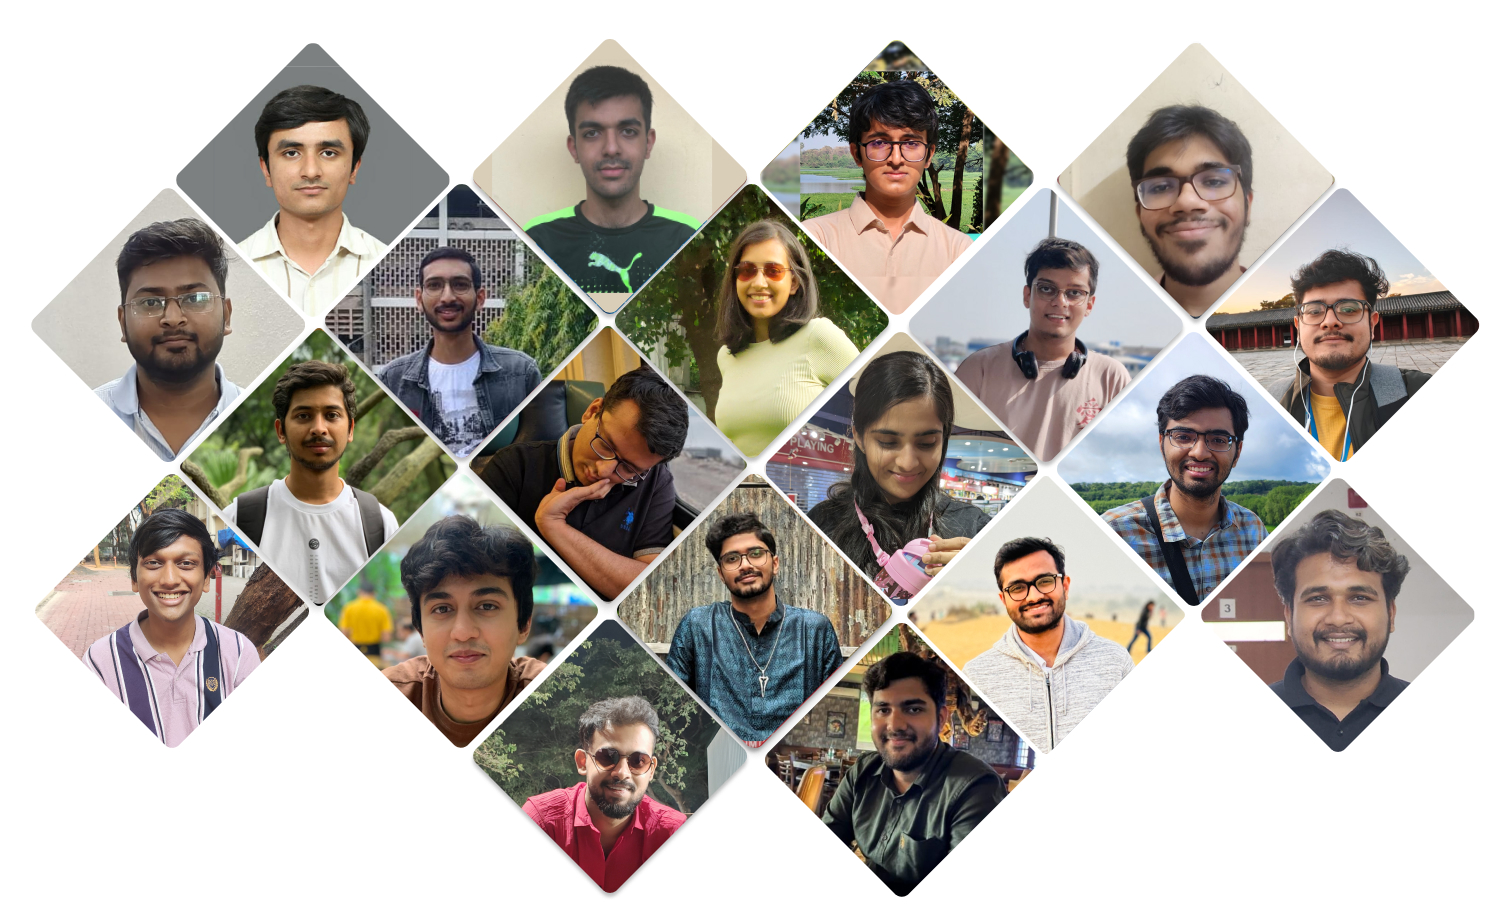
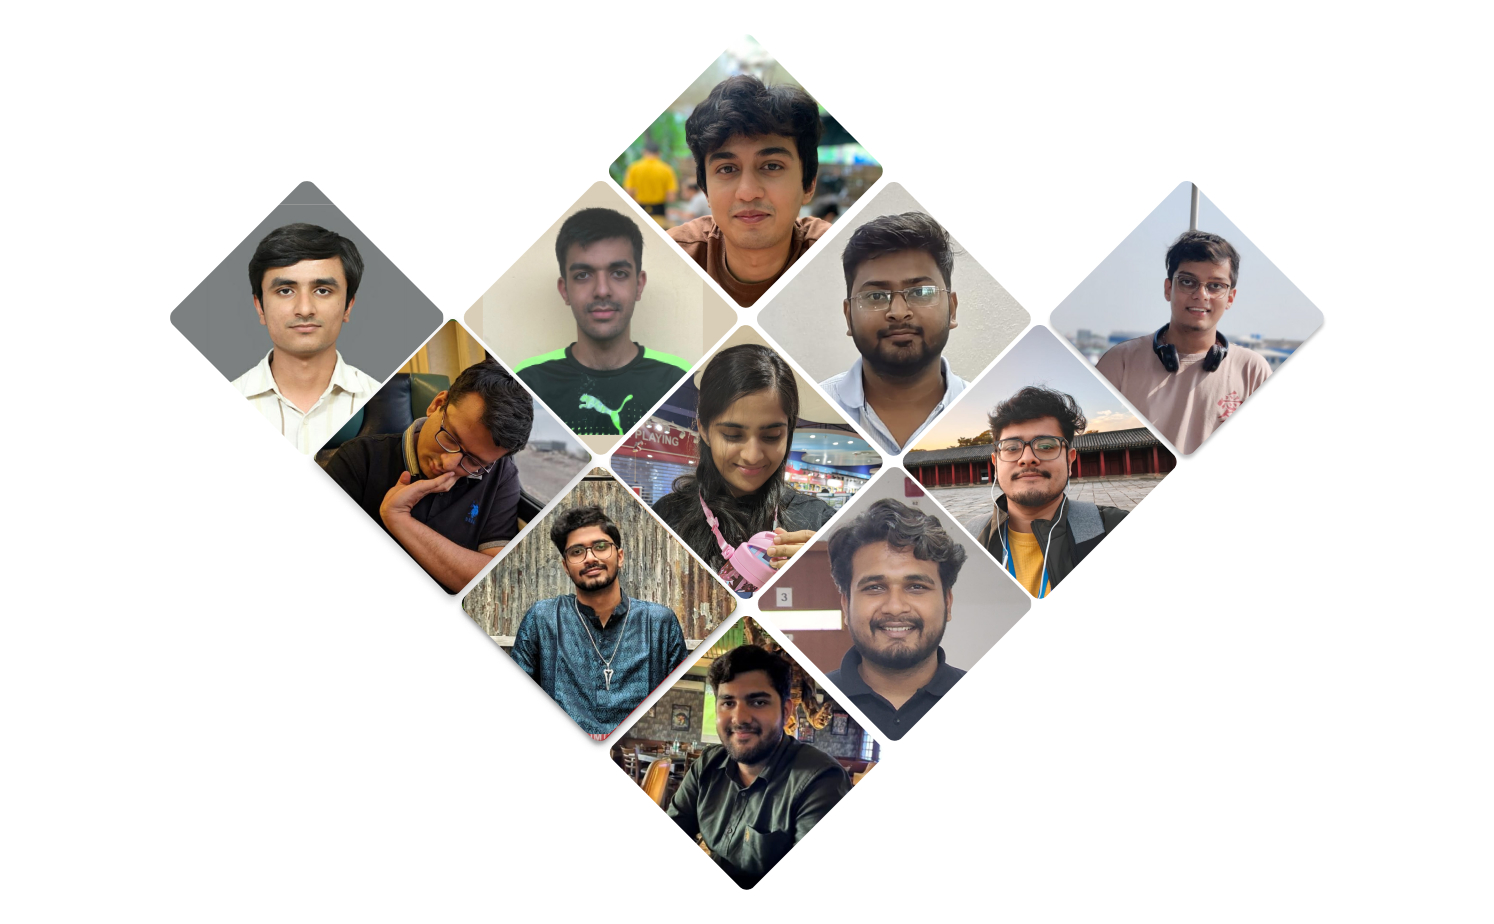
ISCA, publication and student update

diff --git a/pages/publications.md b/pages/publications.md
@@ -5,6 +5,12 @@ background: https://images.unsplash.com/photo-1486825586573-7131f7991bdd?auto=fo
 permalink: /publications/
 
 ---
+* (**[IEEE CAL 2026](https://www.computer.org/csdl/journal/ca)**) Prerna Priyadarshini, Abhijat Bharadwaj, Biswabandan Panda, “**[Differential Privacy for Secure Cache Partitioning: Promises, Limits, and Fixes](https://www.cse.iitb.ac.in/~biswa/CAL2026DP.pdf)**” in IEEE Computer Architecture Letters 2026 (IEEE CAL '26)
+
+* (**[ISCA 2026](https://iscaconf.org/isca2026/)**) Mrityunjay Shukla, Shubham Roy, Sayandeep Saha, and Biswabandan Panda, “**[PRowhammer: Propagating Bit-flips from CPU to GPU](https://www.cse.iitb.ac.in/~biswa/ISCA2026.pdf)**” in 53rd International Symposium on Computer Architecture (ISCA'26)
+
+* (**[IEEE CAL 2026](https://www.computer.org/csdl/journal/ca)**) Vedant Kalbande, Biswabandan Panda, Alexandra Jimborean, and Alberto Ros “**[Untangling the Low Accuracy of the Entangling Instruction Prefetcher](https://www.cse.iitb.ac.in/~biswa/CAL26.pdf)**” in IEEE Computer Architecture Letters 2026 (IEEE CAL '26)
+
 * (**[ASPLOS 2026](https://asplos-conference.org/asplos2026/)**) Vedant Kalbande, Hrishikesh Deshmukh, Alberto Ros, and Biswabandan Panda, “**[ICARUS: Criticality and Reuse based Instruction Caching for Datacenter Applications](https://www.cse.iitb.ac.in/~biswa/ASPLOS26.pdf)**” in 31st ACM International Conference on Architectural Support for Programming Languages and Operating Systems (ASPLOS'26)
 
 * (**[MICRO 2025](https://www.microarch.org/micro58/)**) Sweta, Prerna Priyadarshini, and Biswabandan Panda, “**[Drishti: Do Not Forget Slicing While Designing Last-Level Cache Replacement Policies for Many-Core Systems](https://www.cse.iitb.ac.in/~biswa/MICRO25.pdf)**” in 58th IEEE/ACM International Symposium on Microarchitecture (MICRO'25) [Best paper candidate]

diff --git a/pages/home.md b/pages/home.md
@@ -7,6 +7,7 @@ permalink: /
 carousels:
   - images: 
     - image: /uploads/slider/group.jpg
+    - image: /uploads/slider/img51.jpg
     - image: /uploads/slider/group5.jpg
     - image: /uploads/slider/img50.jpg
     - image: /uploads/slider/img49.jpg
